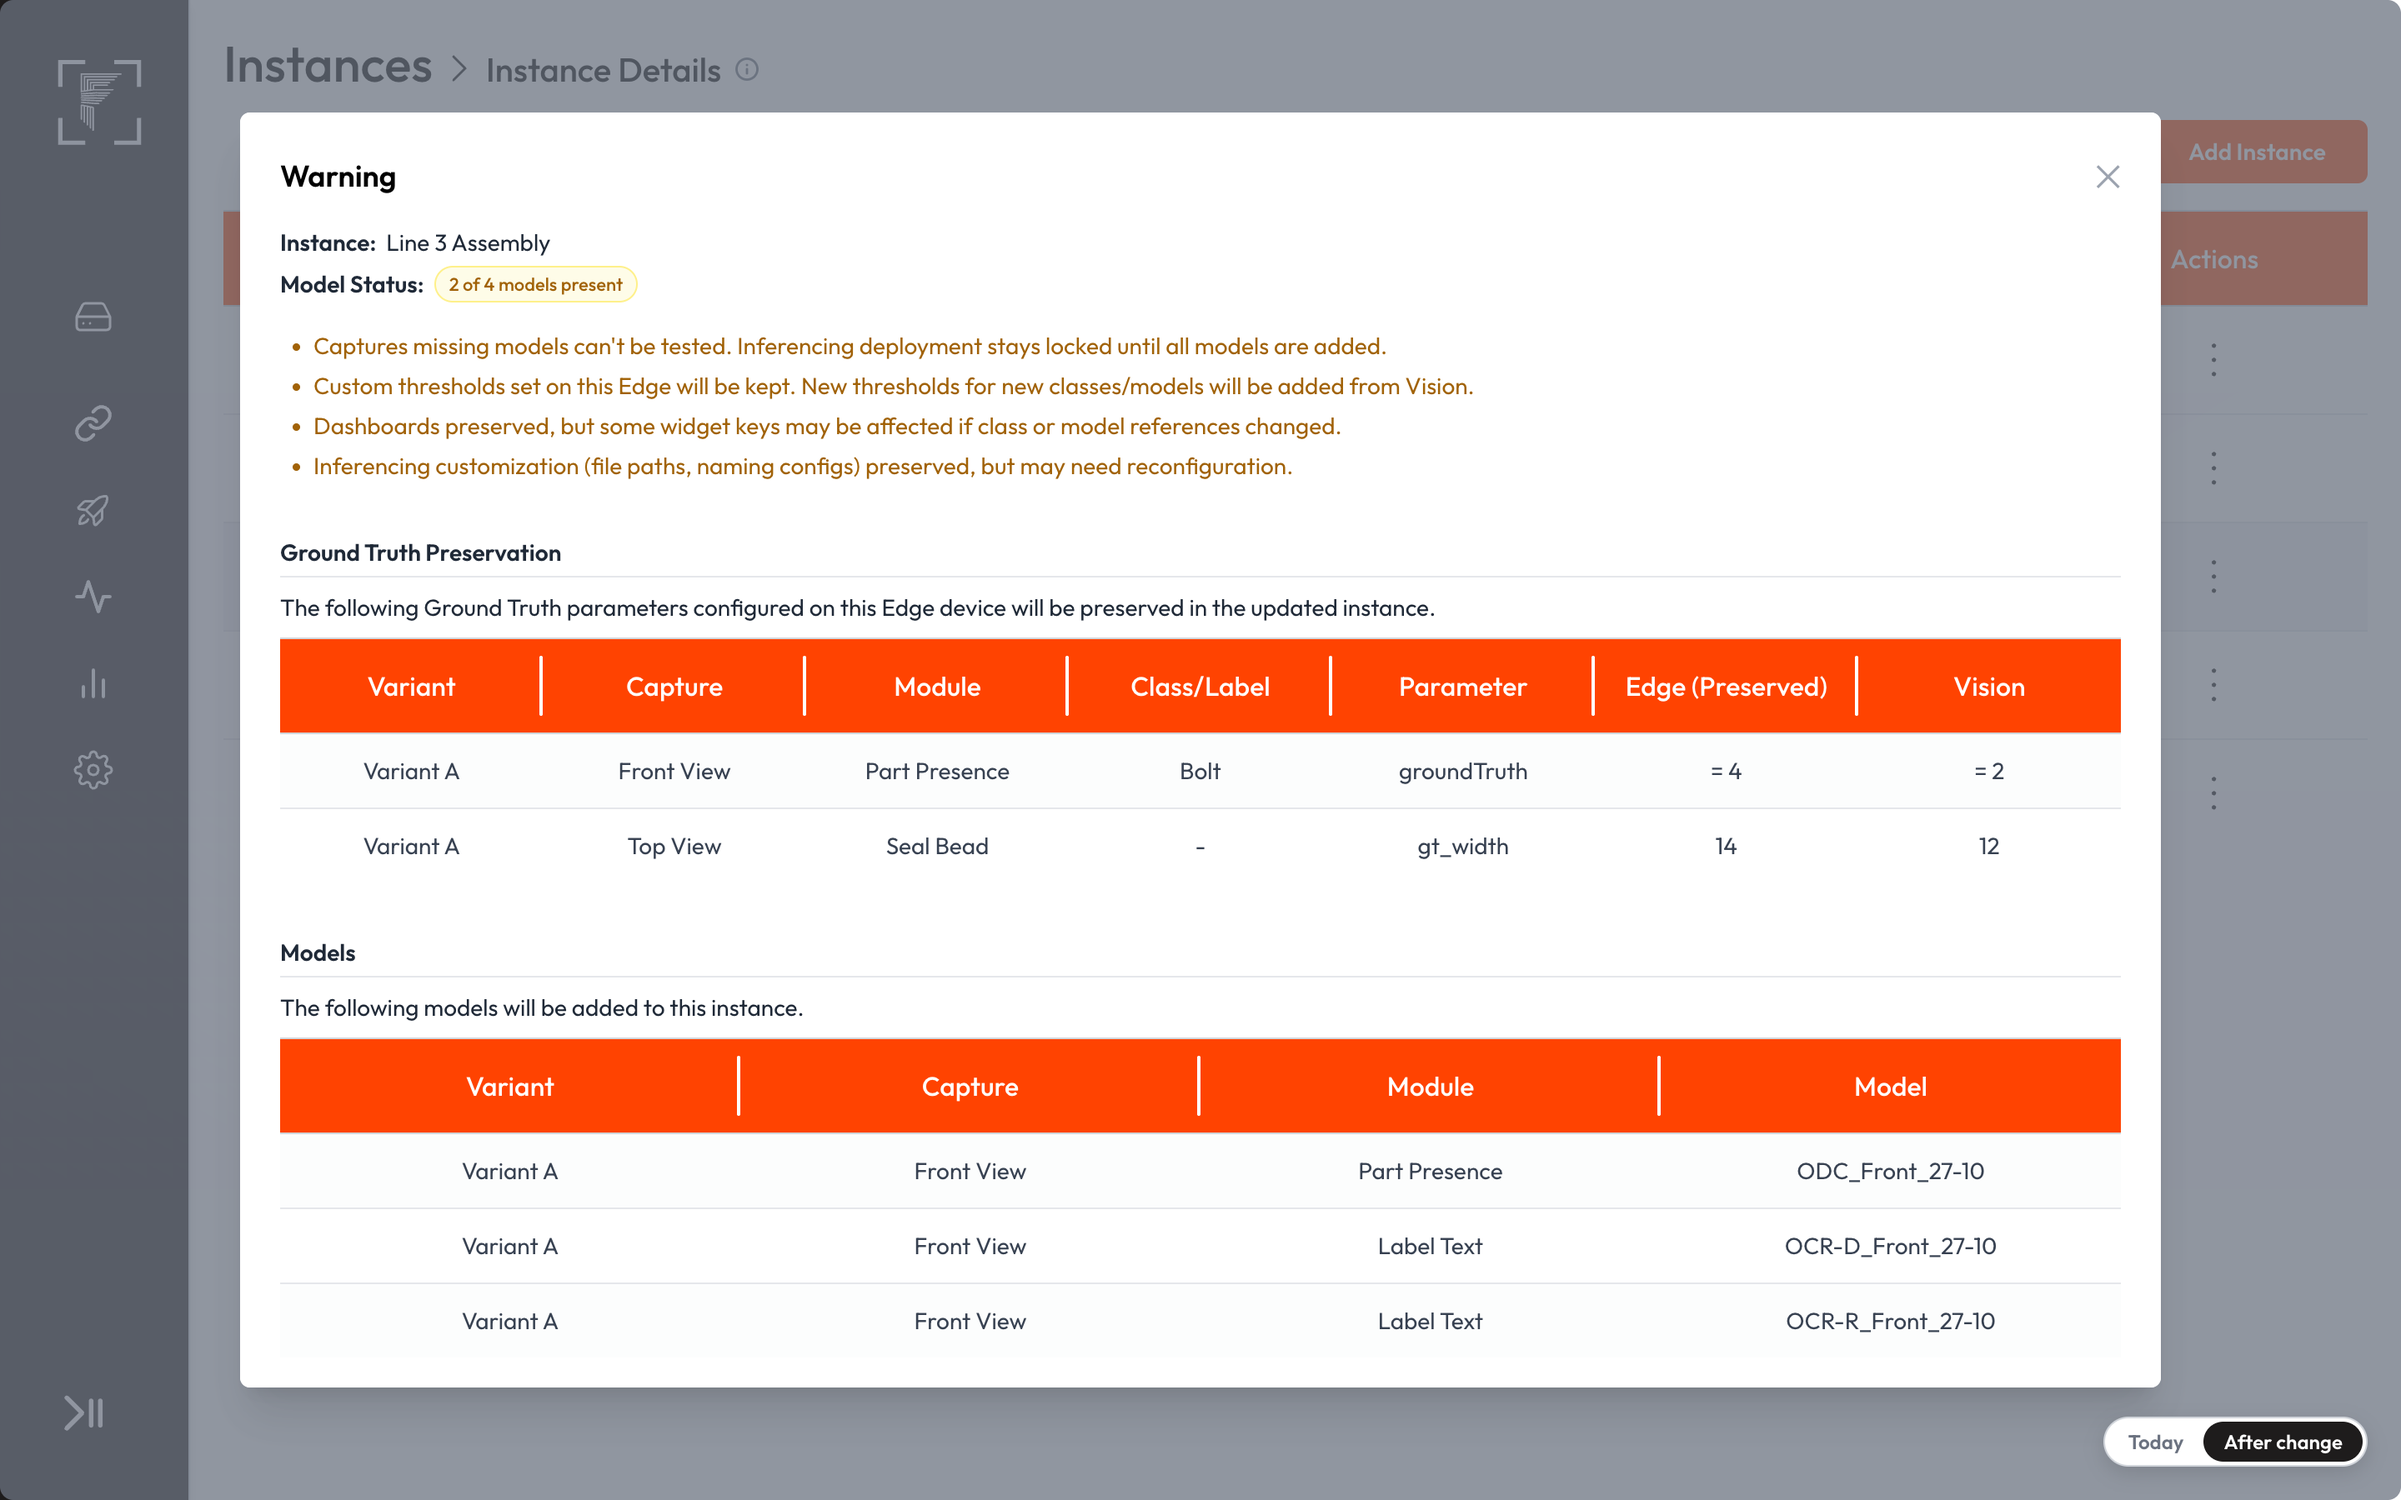
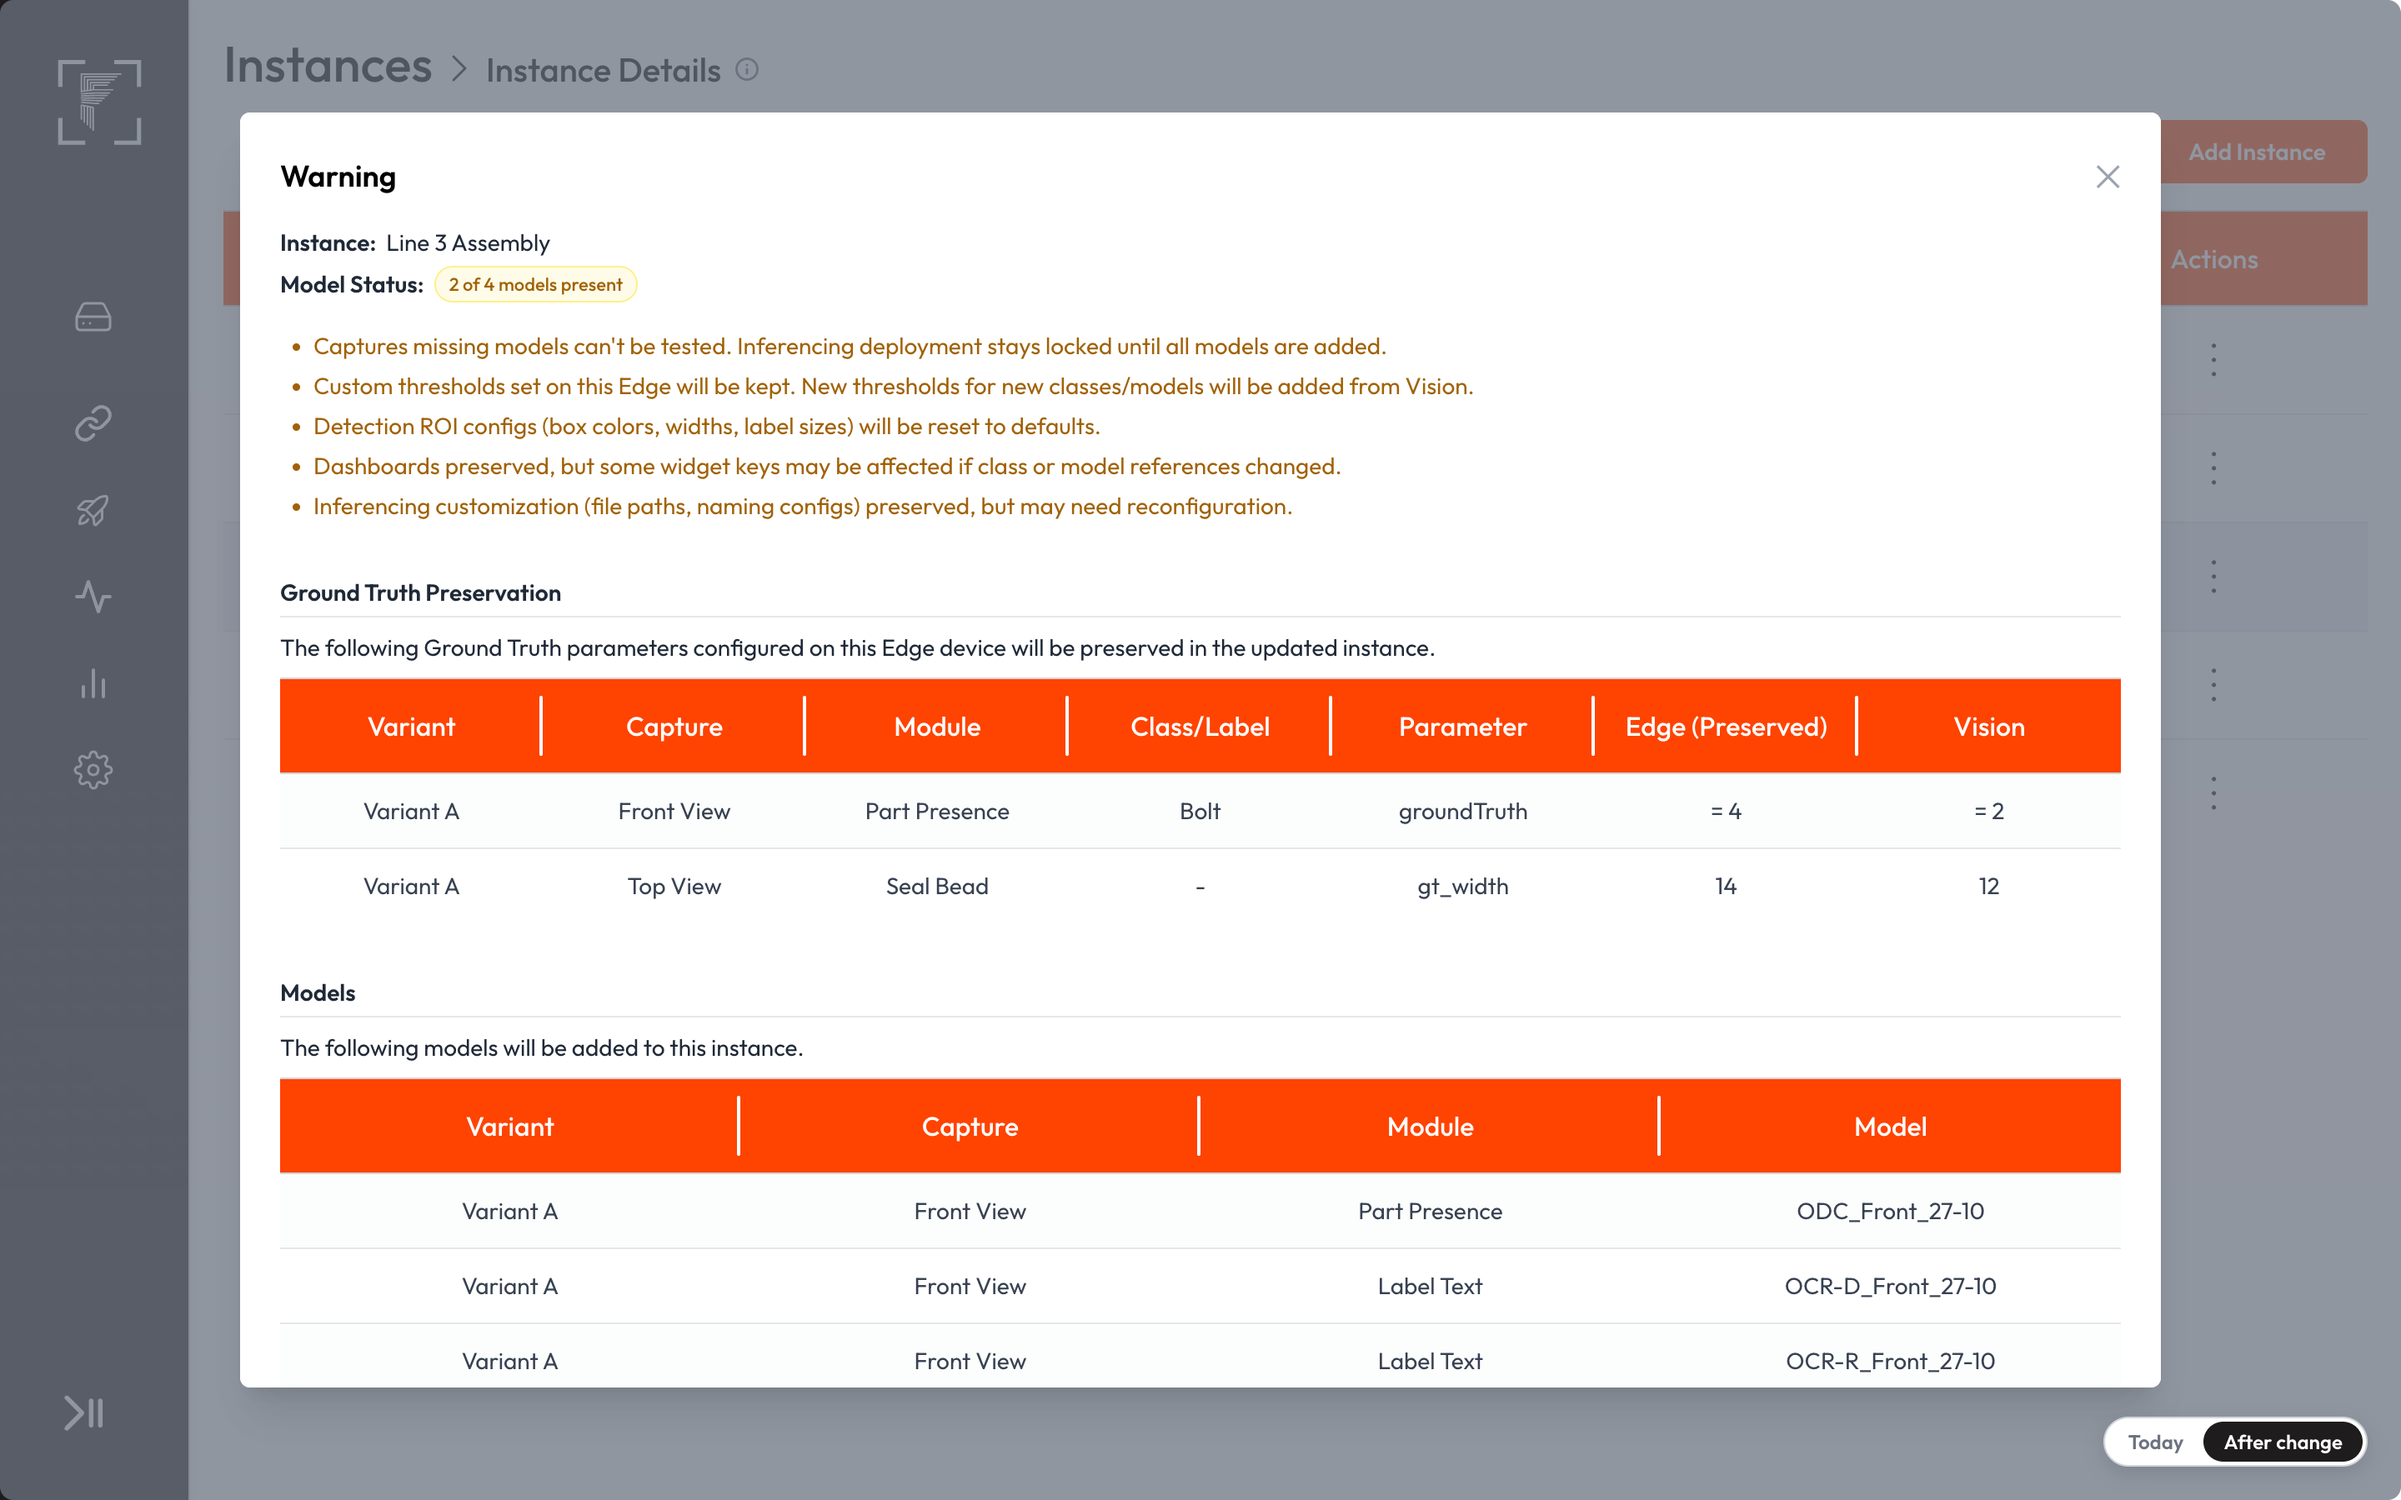
Keep today's re-upload reset warning; split testing vs Inferencing lock line

Changed region(s): [[0.0938, 0.28, 0.9062, 0.5911], [0.0938, 0.6222, 0.9062, 0.9333]]

diff --git a/edge-instances.html b/edge-instances.html
@@ -624,14 +624,12 @@ button.mchip:hover{filter:brightness(.96)}
     'Dashboards preserved, but some widget keys may be affected if class or model references changed.',
     'Inferencing customization (file paths, naming configs) preserved, but may need reconfiguration.'
   ];
-  // After: the analysed-image (ROI) reset is out of this change's scope, so its line is not shown.
-  var REUPLOAD_W_AFTER = [REUPLOAD_W[0], REUPLOAD_W[2], REUPLOAD_W[3]];
   // validateNewInstanceOnExistingEdge (228-233)
   var NEW_INSTANCE_W = [
     'Shared configs (camera configs, capture positions) will be deleted and re-created. This affects all instances on this edge.',
     'If camera config IDs have changed, re-upload the first instance as well.'
   ];
-  var LOCKED_NONE = 'Edge testing and Inferencing deployment stay locked until all models are added.';
+  var LOCKED_NONE = 'Edge testing stays locked until models are added. Inferencing deployment stays locked until all models are added.';
   var LOCKED_SOME = 'Captures missing models can\'t be tested. Inferencing deployment stays locked until all models are added.';
 
   function validate(p, target) {
@@ -656,7 +654,7 @@ button.mchip:hover{filter:brightness(.96)}
       res.summary = [['Instance', esc(p.instName + bracket)], ['Model Status', chipHTML(l3After)]];
       if (p.kind === 'config') push([LOCKED_NONE]);
       if (p.kind === 'some') push([LOCKED_SOME]);
-      if (p.hasSql) push(onBox ? REUPLOAD_W_AFTER : NEW_INSTANCE_W);
+      if (p.hasSql) push(onBox ? REUPLOAD_W : NEW_INSTANCE_W);
       res.models = modelsIn(p);
       res.gtDiffs = gtDiffsFor(p);
       return done();
